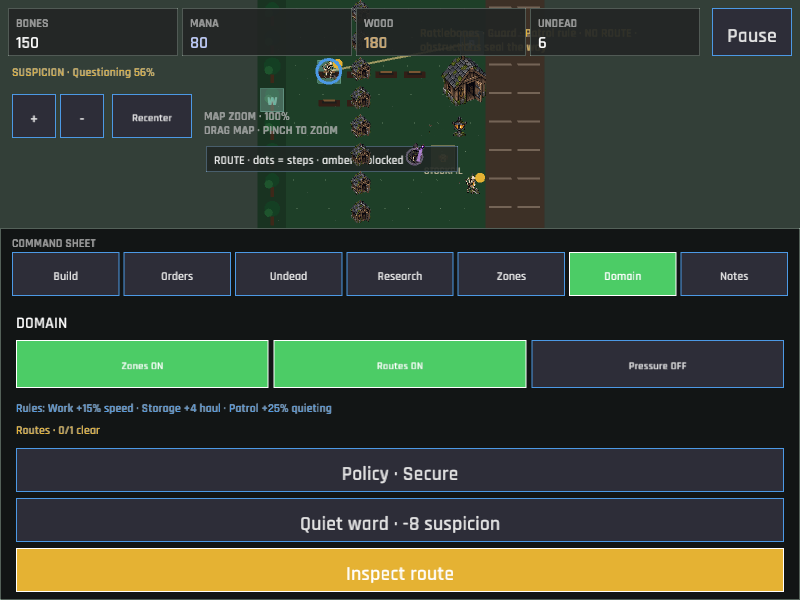
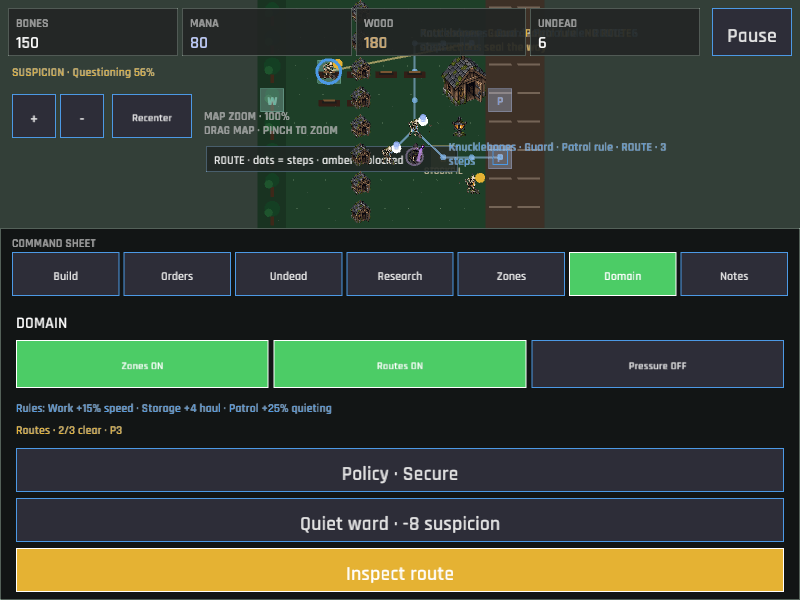
The patrol lanterns share the clearing (multi-post route coverage, Domain Stewardship)
Guards now spread across all marked patrol posts by stable worker identity, while closed routes select the nearest reachable post. Storage routing aggregates tiles from every marked storage district, and Domain Stewardship readouts expose the patrol network count across desktop and compact views. Verification fixtures and the visual plan now document the multi-post network.

diff --git a/src/engine/jobs.rs b/src/engine/jobs.rs
@@ -114,7 +114,7 @@ pub fn destination_for_worker(session: &GameSession, worker: &Worker) -> Option<
                 None
             }
         }
-        JobKind::Guard => Some(patrol_destination(session, worker.position)),
+        JobKind::Guard => Some(patrol_destination(session, worker.position, worker.id)),
         JobKind::Wood => wood_destination(session, worker.position),
         JobKind::Build => session
             .world
@@ -211,25 +211,37 @@ fn nearest_tile(origin: TilePos, candidates: Vec<TilePos>) -> Option<TilePos> {
 
 fn storage_destination(session: &GameSession, origin: TilePos) -> TilePos {
     let fallback = session.world.storage_position();
-    let candidates = session
-        .world
-        .zones
-        .iter()
-        .find(|zone| zone.kind == ZoneKind::Storage)
-        .map_or_else(|| vec![fallback], |zone| zone.tiles.clone());
+    let candidates = zone_tiles(session, ZoneKind::Storage);
+    let candidates = if candidates.is_empty() {
+        vec![fallback]
+    } else {
+        candidates
+    };
     nearest_reachable_or_nearest(session, origin, candidates).unwrap_or(fallback)
 }
 
-fn patrol_destination(session: &GameSession, origin: TilePos) -> TilePos {
+fn patrol_destination(session: &GameSession, origin: TilePos, worker_id: u32) -> TilePos {
     let fallback = session.world.patrol_position();
-    let candidates = session
+    let candidates = zone_tiles(session, ZoneKind::Patrol);
+    if candidates.is_empty() {
+        return fallback;
+    }
+    let preferred = candidates[worker_id as usize % candidates.len()];
+    if navigation::plan_route(session, origin, preferred).is_ok() {
+        return preferred;
+    }
+    nearest_reachable_or_nearest(session, origin, candidates)
+        .unwrap_or_else(|| session.world.patrol_position_for(origin))
+}
+
+fn zone_tiles(session: &GameSession, kind: ZoneKind) -> Vec<TilePos> {
+    session
         .world
         .zones
         .iter()
-        .find(|zone| zone.kind == ZoneKind::Patrol)
-        .map_or_else(|| vec![fallback], |zone| zone.tiles.clone());
-    nearest_reachable_or_nearest(session, origin, candidates)
-        .unwrap_or_else(|| session.world.patrol_position_for(origin))
+        .filter(|zone| zone.kind == kind)
+        .flat_map(|zone| zone.tiles.iter().copied())
+        .collect()
 }
 
 fn wood_destination(session: &GameSession, origin: TilePos) -> Option<TilePos> {

diff --git a/src/engine/jobs/tests.rs b/src/engine/jobs/tests.rs
@@ -247,6 +247,53 @@ fn patrol_target_prefers_a_reachable_marked_post() {
 }
 
 #[test]
+fn marked_patrol_posts_distribute_across_guard_workers() {
+    let data = crate::data::GameData::load().unwrap();
+    let mut session = GameSession::new(&data.config);
+    let first_post = macroquad_toolkit::grid::TilePos::new(5, 1);
+    let second_post = macroquad_toolkit::grid::TilePos::new(5, 3);
+    session.world.zones.push(crate::state::Zone {
+        kind: crate::state::ZoneKind::Patrol,
+        tiles: vec![first_post, second_post],
+    });
+    session.workforce.workers[0].assignment = JobKind::Guard;
+    let mut second_worker = session.workforce.workers[0].clone();
+    second_worker.id = 2;
+    session.workforce.workers.push(second_worker);
+
+    let first_destination = destination_for_worker(&session, &session.workforce.workers[0]);
+    let second_destination = destination_for_worker(&session, &session.workforce.workers[1]);
+
+    assert_eq!(first_destination, Some(second_post));
+    assert_eq!(second_destination, Some(first_post));
+}
+
+#[test]
+fn storage_routing_aggregates_tiles_from_multiple_marked_districts() {
+    let data = crate::data::GameData::load().unwrap();
+    let mut session = GameSession::new(&data.config);
+    let near_storage = macroquad_toolkit::grid::TilePos::new(5, 1);
+    session.world.zones.extend([
+        crate::state::Zone {
+            kind: crate::state::ZoneKind::Storage,
+            tiles: vec![macroquad_toolkit::grid::TilePos::new(1, 1)],
+        },
+        crate::state::Zone {
+            kind: crate::state::ZoneKind::Storage,
+            tiles: vec![near_storage],
+        },
+    ]);
+    session.workforce.workers[0].assignment = JobKind::Haul;
+    session.workforce.workers[0].carrying = 1;
+    session.workforce.workers[0].position = near_storage;
+
+    assert_eq!(
+        destination_for_worker(&session, &session.workforce.workers[0]),
+        Some(near_storage)
+    );
+}
+
+#[test]
 fn idle_dig_preview_uses_a_reachable_grave() {
     let data = crate::data::GameData::load().unwrap();
     let mut session = GameSession::new(&data.config);

diff --git a/src/game/capture.rs b/src/game/capture.rs
@@ -206,7 +206,7 @@ impl Game {
             },
             Zone {
                 kind: ZoneKind::Patrol,
-                tiles: vec![TilePos::new(7, 1)],
+                tiles: vec![TilePos::new(7, 1), TilePos::new(8, 3), TilePos::new(8, 5)],
             },
         ];
         self.session.world.selected = Some(Selection::Ground(TilePos::new(5, 5)));
@@ -228,6 +228,13 @@ impl Game {
             worker.assignment = JobKind::Guard;
             worker.status = WorkerStatus::Hiding;
             worker.position = TilePos::new(5, 5);
+        }
+        for (index, position) in [(1, TilePos::new(5, 4)), (2, TilePos::new(4, 5))] {
+            if let Some(worker) = self.session.workforce.workers.get_mut(index) {
+                worker.assignment = JobKind::Guard;
+                worker.status = WorkerStatus::Hiding;
+                worker.position = position;
+            }
         }
     }
 

diff --git a/src/ui/world_feedback.rs b/src/ui/world_feedback.rs
@@ -3,7 +3,7 @@
 use super::components::GridView;
 use super::UiContext;
 use crate::engine::{districts, jobs, navigation};
-use crate::state::{JobKind, PlotStatus, ResourceKind, Selection, Worker, WorkerStatus};
+use crate::state::{JobKind, PlotStatus, ResourceKind, Selection, Worker, WorkerStatus, ZoneKind};
 use macroquad::prelude::*;
 use macroquad_toolkit::grid::TilePos;
 use macroquad_toolkit::prelude::*;
@@ -323,6 +323,16 @@ pub(super) fn route_counts(ctx: &UiContext<'_>) -> (usize, usize) {
         }
     }
     (clear, total)
+}
+
+pub(super) fn patrol_post_count(ctx: &UiContext<'_>) -> usize {
+    ctx.session
+        .world
+        .zones
+        .iter()
+        .filter(|zone| zone.kind == ZoneKind::Patrol)
+        .map(|zone| zone.tiles.len())
+        .sum()
 }
 
 pub(super) fn worker_idle_reason(ctx: &UiContext<'_>, worker: &Worker) -> String {

diff --git a/src/ui/responsive/panels.rs b/src/ui/responsive/panels.rs
@@ -363,9 +363,15 @@ fn draw_compact_domain_panel(
     );
     let (clear_routes, total_routes) = super::super::world_feedback::route_counts(ctx);
     let route_summary = if total_routes == 0 {
-        "Routes · no destinations plotted".to_owned()
+        format!(
+            "Routes · no destinations · P{}",
+            super::super::world_feedback::patrol_post_count(ctx)
+        )
     } else {
-        format!("Routes · {clear_routes}/{total_routes} clear")
+        format!(
+            "Routes · {clear_routes}/{total_routes} clear · P{}",
+            super::super::world_feedback::patrol_post_count(ctx)
+        )
     };
     draw_text_block(
         &route_summary,

diff --git a/src/ui/domain.rs b/src/ui/domain.rs
@@ -203,9 +203,15 @@ fn draw_stewardship_readout(
 ) {
     let (clear_routes, total_routes) = super::world_feedback::route_counts(ctx);
     let route_summary = if total_routes == 0 {
-        "no destinations plotted".to_owned()
+        format!(
+            "no destinations plotted · {} patrol posts",
+            super::world_feedback::patrol_post_count(ctx)
+        )
     } else {
-        format!("{clear_routes}/{total_routes} routes clear")
+        format!(
+            "{clear_routes}/{total_routes} routes clear · {} patrol posts",
+            super::world_feedback::patrol_post_count(ctx)
+        )
     };
     draw_text_block(
         "STEWARDSHIP READOUT",

diff --git a/docs/visual-direction-and-ui-plan.md b/docs/visual-direction-and-ui-plan.md
@@ -111,7 +111,7 @@ Do not add conventional food and housing needs automatically. If later design re
 
 ## Current prototype and remaining direction
 
-The current game has a 10 × 8 world, six authored grave positions, one starting skeleton, three building types, jobs, repeat priorities, corpse qualities, suspicion events, versioned save support, a selectable necromancer, positioned buildings, four research technologies, editable work areas, deterministic worker routing, route-aware Work/Storage/Patrol destinations, an Ossuary Kiln production recipe with a three-cycle queue, a district overview with a stateful minimap, actionable operational alerts with a seven-entry History drawer, Domain Stewardship overlays for zones, worker routes, and road pressure, persistent Balanced, Secure, and Harvest policies for automated workers, active Work/Storage/Patrol district rules that affect job efficiency after Domain Stewardship, and touch camera pan/pinch with visible zoom and recenter controls on compact viewports. The sprite sheet is registered through the texture manifest and falls back to an obvious placeholder when unavailable. The current victory condition ends the slice after the small cemetery is established; larger district simulation remains future work.
+The current game has a 10 × 8 world, six authored grave positions, one starting skeleton, three building types, jobs, repeat priorities, corpse qualities, suspicion events, versioned save support, a selectable necromancer, positioned buildings, four research technologies, editable work areas, deterministic worker routing, route-aware Work/Storage/Patrol destinations, stable multi-post patrol coverage, aggregated storage and patrol districts, an Ossuary Kiln production recipe with a three-cycle queue, a district overview with a stateful minimap, actionable operational alerts with a seven-entry History drawer, Domain Stewardship overlays for zones, worker routes, and road pressure, persistent Balanced, Secure, and Harvest policies for automated workers, active Work/Storage/Patrol district rules that affect job efficiency after Domain Stewardship, and touch camera pan/pinch with visible zoom and recenter controls on compact viewports. The sprite sheet is registered through the texture manifest and falls back to an obvious placeholder when unavailable. The current victory condition ends the slice after the small cemetery is established; larger district simulation remains future work.
 
 | Implemented foundation | Remaining direction |
 | --- | --- |
